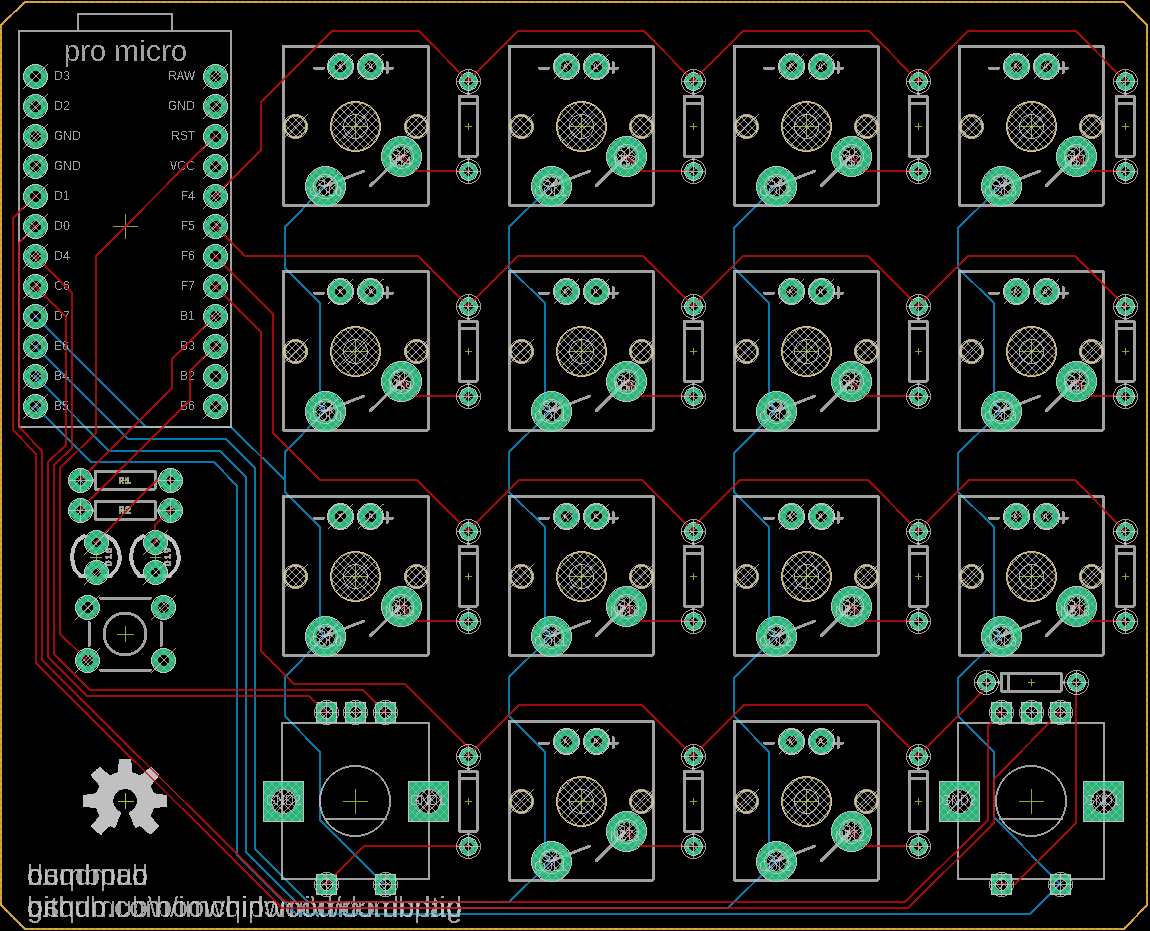
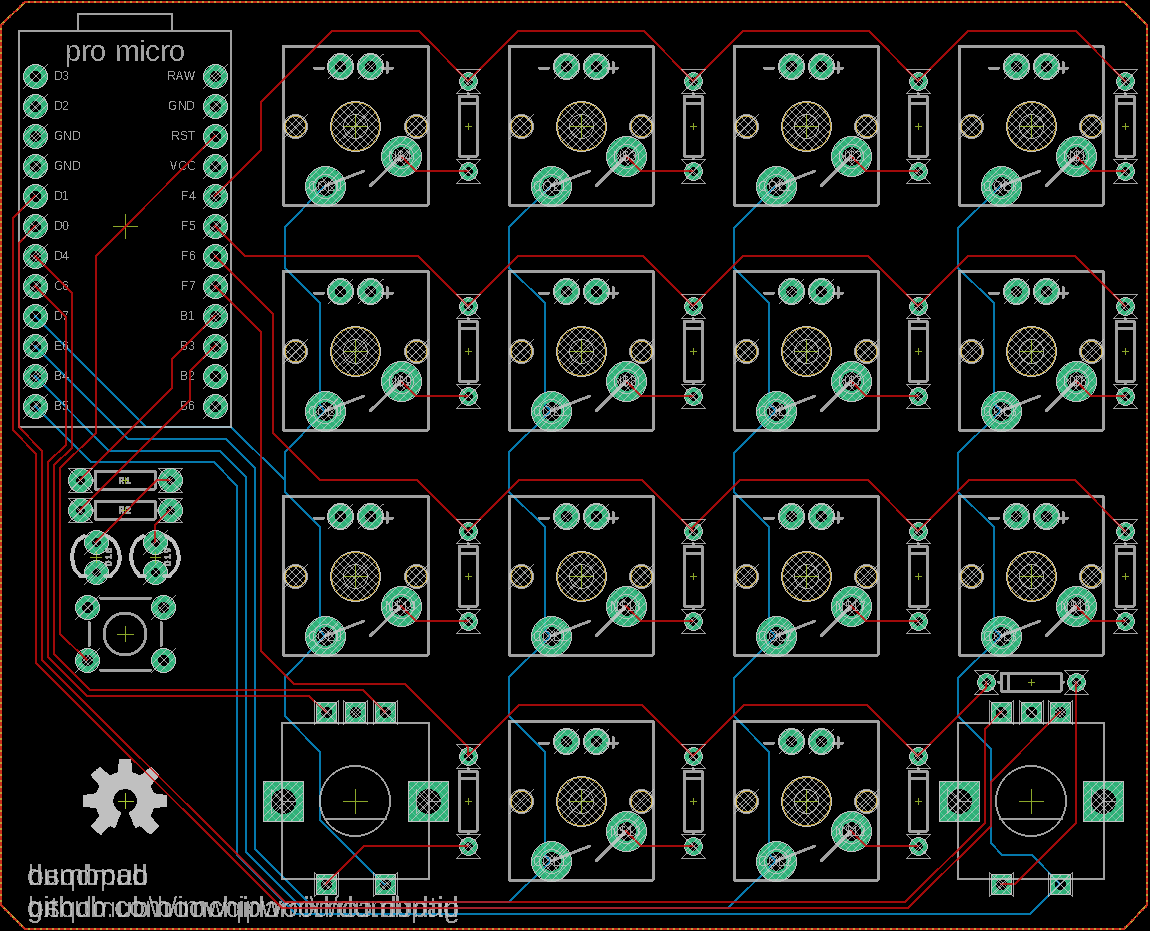
moved some wires to avoid sketchy tolerances and updated readme

diff --git a/README.md b/README.md
@@ -1,20 +1,42 @@
 # dumbpad
+Designed by [imchipwood](https://www.github.com/imchipwood) in Portland, Oregon, USA
 
+Special thanks to [QMK](https://www.qmk.fm) for open-source keyboard firmware
+
+## Description
+dumbpad is a simple 4x4 numpad with a rotary encoder. It is designed for the ATmega32u4-based Pro Micro but any ATmega32u4-based microcontroller using the same form factor should work
+
+It is designed to run [QMK firmware](https://github.com/qmk/qmk_firmware) - check [qmk_firmware/keyboards/dumbpad](https://github.com/qmk/qmk_firmware/tree/master/keyboards/dumbpad) for compiling & uploading instructions
+
+### Revisions
+- v0.5 introduces 2x LEDs for indicating which layer is enabled, accurately representing up to 4 layers
+- v0.6_dualencoder is a true 4x4 macropad with two rotary encoders - one in each bottom corner
+- v0.6_dualencoder_top is the same as v0.6_dualencoder but the encoders are moved to the top corners
+
+#### dumbpad v0.2, PCB by [OSH Park](https://www.oshpark.com)
 ![dumbpad](https://i.imgur.com/sS3fq1Z.jpg)
+#### Dual-encoder version by chicocode:
+![dumbpad](https://i.imgur.com/OkSRXWT.jpg)
+#### Eagle PCB render
 ![dumbpad](dumbpad.png)
 
-dumbpad is a simple 4x4 macro/numpad with a rotary encoder. It is designed for the ATmega32u4-based Pro Micro running [QMK firmware](https://github.com/qmk/qmk_firmware).
-
-The EC11 rotary encoders used have a push-button, so they also act as regular switches.
-
-## Parts
+### Parts
 * 14x Cherry-style mechanical switches
 * 16x 1n4148 diodes (thru hole)
-* 2x EC11 rotary encoder (7-pin)
-* 1x Pro Micro ATmega32u4
-* (optional) 1x 6mm tactile switch (to reset MCU - not needed most of the time as QMK has a RESET keycode)
+* 1x Arduino Pro Micro or pin-compatible ATmega32u4-based MCU
+* 1x EC11 rotary encoder with pushbutton (7-pin)
+* (optional) 1x 6mm tactile switch (to reset MCU)
 * (optional) 2x 3mm LEDs (whatever color)
 * (optional) 2x 220ohm or similar resistors for the LEDS (not needed if not adding LEDs)
 
+#### Notes
+- No case is currently available
+- To avoid damaging the PCB and prevent it from sliding around, put rubber feet on the bottom of the PCB
+  - place feet directly under the rotary encoder(s) as they take significant force to press
+  - place the others in the corners and one in the center
+
 ## Making the PCB
-https://www.oshpark.com is the recommended service for creating PCBs for folks in North America. 3x PCBs is roughly $60 from them. Simply upload the .brd file to create the project and order.
+Submit the `.brd` file to your preferred PCB manufacturer - be mindful of minimum quantity requirements.
+
+### OSH Park - USA PCB Manufacturing
+Shameless Portland, Oregon company plug - [OSH Park](https://www.oshpark.com) is a fast and reliable manufacturer, combining multiple individual orders into a single panel to minimize end-user costs. dumbpad is just under $60 for 3 copies through OSH Park.
